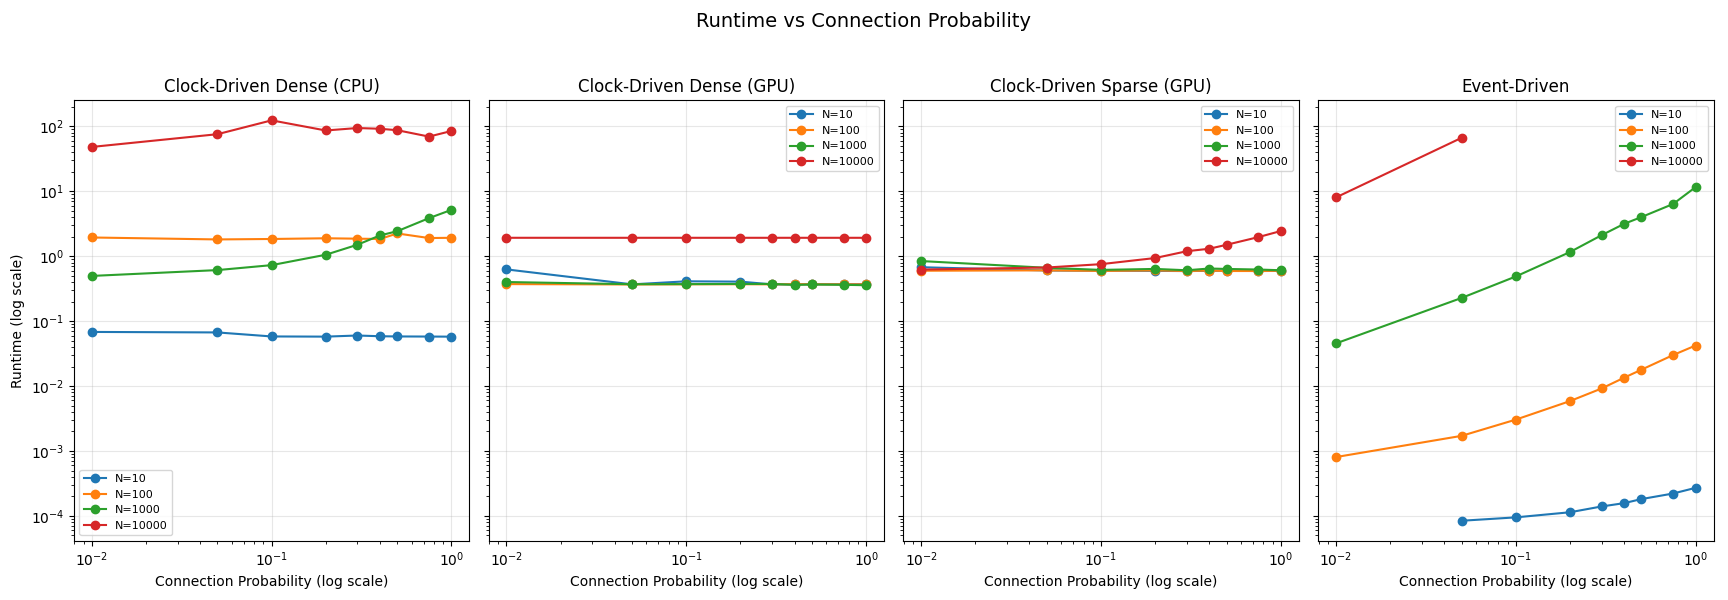
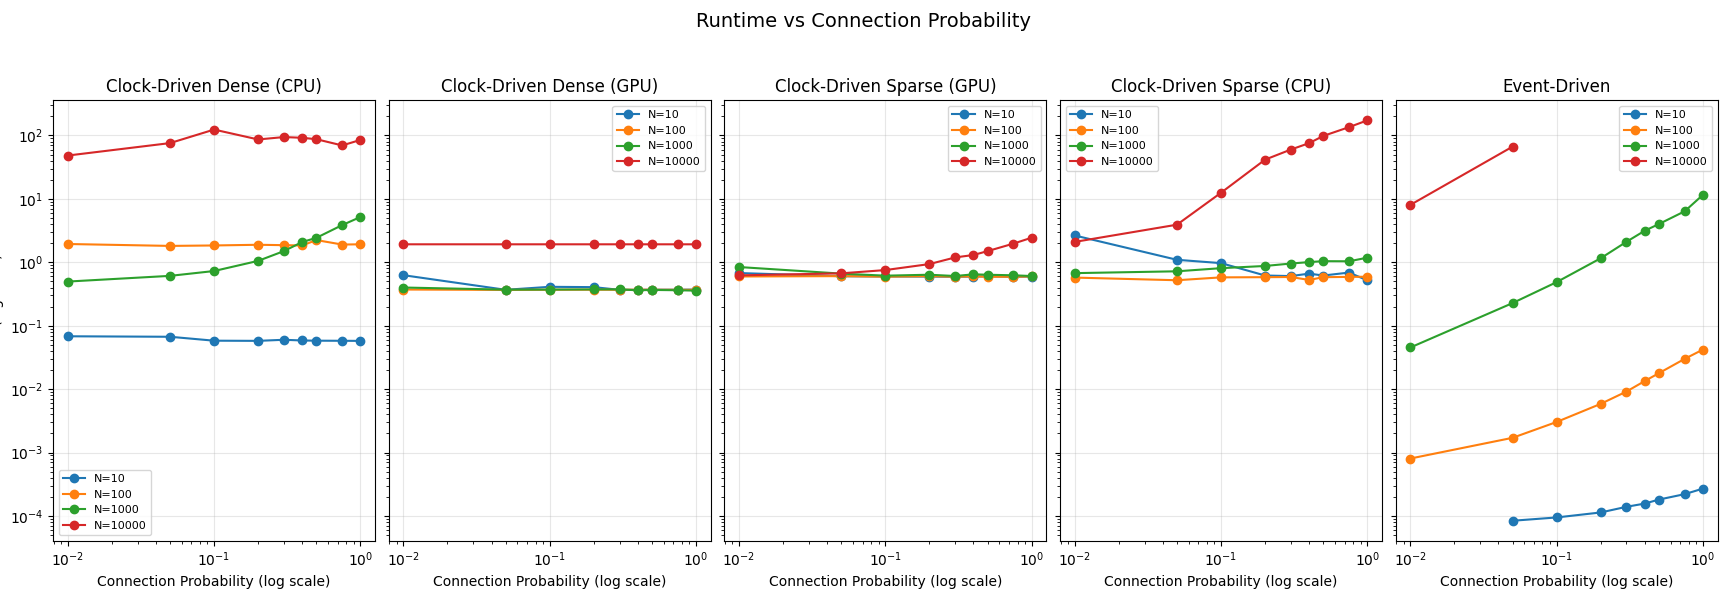
Update README and 04-30 results

diff --git a/logs/04-30/analysis.py b/logs/04-30/analysis.py
@@ -11,10 +11,11 @@ def plot_results(results_path: str = "results.csv"):
         ("clock_driven_dense", "cpu", "Clock-Driven Dense (CPU)"),
         ("clock_driven_dense", "gpu", "Clock-Driven Dense (GPU)"),
         ("clock_driven_sparse_gpu", "gpu", "Clock-Driven Sparse (GPU)"),
+        ("clock_driven_sparse_cpu", "cpu", "Clock-Driven Sparse (CPU)"),
         ("event_driven", "cpu", "Event-Driven"),
     ]
 
-    fig, axes = plt.subplots(1, 4, figsize=(18, 6), sharex=True, sharey=True)
+    fig, axes = plt.subplots(1, 5, figsize=(25, 6), sharex=True, sharey=True)
     fig.suptitle("Runtime vs Connection Probability", fontsize=14)
 
     cmap = plt.get_cmap("tab10")

diff --git a/README.md b/README.md
@@ -1,44 +1,36 @@
 # SNN Scaling
 
-Status: all simulations running without errors and produce equivalent spike statistics for the same parameter values. The only exception to this is the neuromorphic simulation, which has been implemented but only runs in virtual mode since I do not have access to a board yet.
+## Problem Statement
 
-## Overview
-
-This repo is an experimental framework for studying the computational scaling properties of spiking neural network (SNN) simulations across hardware architectures.
-
-The goal of this project is to systematically characterize how simulation cost depends on:
-
-• Network size (N)
-
-• Connectivity density and mean degree
-
-• Spike statistics and dynamical regime
-
-• Execution model (dense, sparse, event-driven)
-
-• Data representation (dense matrix, sparse matrix, event queue)
-
-• Hardware architecture (CPU, GPU, neuromorphic platforms)
-
-Rather than focusing on task performance or learning, this repository investigates the systems-level behavior of SNN simulation itself.
+How do crossover points between SNN execution strategies (clock-driven, event-driven) vary across hardware platforms, (CPU/GPU/neuromorphic) and how do these crossover points shift depending on whether we optimize for runtime, memory, or energy efficiency? Furthermore, can these crossover points predict the performance of SNN simulators based on their underlying computational strategies (dense matmul, sparse matmul, event queues)?
 
 ## Motivation
 
-Spiking neural networks can be simulated using fundamentally different computational paradigms:
+There is currently little principled understanding of how spiking neural network (SNN) performance emerges from underlying computational primitives across different execution strategies and hardware platforms. As a result, practitioners often lack guidance when choosing between event-driven and time-driven simulators, especially under varying workload characteristics such as sparsity, network size, and temporal structure.
 
-• Dense clock-driven matrix operations
+Moreover, existing SNN simulators are typically evaluated as black boxes, without clearly relating system performance to the primitives used to schedule and propagate spikes over time. This makes it difficult to reason about performance bottlenecks or design targeted optimizations.
 
-• Sparse linear algebra
+The goal of this work is to bridge this gap by explicitly connecting computational primitives to system-level performance. This would enable more informed simulator selection and inform execution strategies that dynamically choose or switch primitives based on workload characteristics. In particular, this framework can help identify regions of the parameter space where neuromorphic hardware offers clear performance or efficiency advantages over conventional CPU/GPU-based execution.
 
-• Event-driven propagation
+## Status
 
-• Neuromorphic routing fabrics
+Most simulations running without errors and produce equivalent spike statistics for the same parameter values. 
 
-Each paradigm interacts differently with hardware architectures such as CPUs, GPUs, and neuromorphic chips.
+Spinnaker simulation is implemented but has not been configured or tested with an actual board.
 
-Understanding when dense simulation is optimal, when sparsity becomes advantageous, when event-driven approaches dominate, and where architectural crossover points occur is critical for developing principled scaling laws and guiding hardware-aware neural modeling.
+OpenMP simulation and Loihi simulation are not yet implemented.
 
-This project aims to isolate these tradeoffs.
+TODO:
+- Implement OpenMP simulation
+- Implement Loihi simulation
+- Find relevant SNN simulators and create simulation runners for them
+- Look into Loihi/Spinnaker board access
+- Implement energy monitoring with intel rapl and nvidia-smi (and find neuromorphic monitoring solutions)
+- Run full parameter sweeps for each simulation across number of neurons, connection probability, delay structure, timestep size, spike_statistics, etc.
+
+Basic parameter sweep recording runtime is shown below:
+
+![Runtime Parameter Sweep](./logs/04-30/plot.png)
 
 ## Setup
 
@@ -48,12 +40,6 @@ Assumes `pyenv` is installed and correctly using version from `.python-version`.
 python -m venv venv
 source venv/bin/activate
 pip install -r requirements.txt
-```
-
-If running sparse cpu simulation, you will need Intel's mkl library:
-
-```shell
-conda install mkl mkl-include
 ```
 
 Before running `python -m simulations.run_all`, the event-driven C++ backend will need to be compiled with:
